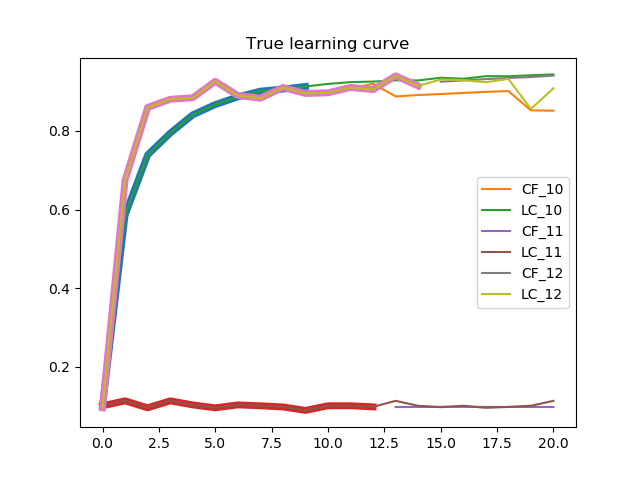
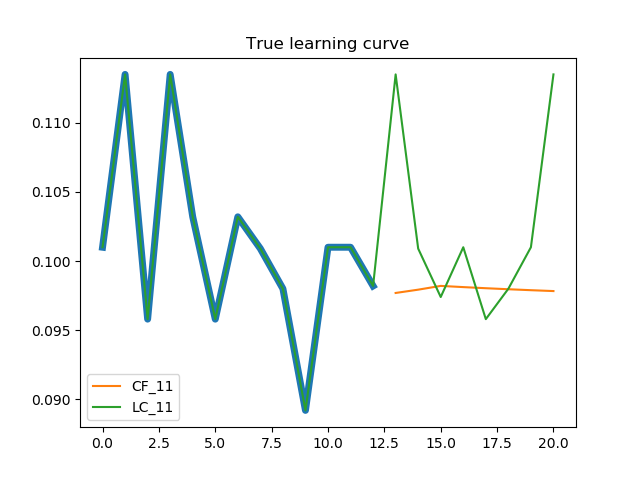
update

diff --git a/examples/experiments/analyse/prediction_comparison.py b/examples/experiments/analyse/prediction_comparison.py
@@ -32,8 +32,6 @@ from nni.mtsmac_advisor.test.util import create_fake_data_simple, create_fake_da
 from nni.mtsmac_advisor.test.util import create_fake_data_expdacay, create_fake_data_expdacay_diff_length
 
 
-
-
 PATH = './examples/experiments'
 
 # pylint:disable=missing-docstring
@@ -54,7 +52,7 @@ def get_err_abs_mtsmac(X, y, len_y):
         count_t = 0
         for j, len_y_j in enumerate(len_y):
             if len_y_j <= t:
-                err_abs[t] += abs(y[j][t]  - mean[j][t])
+                err_abs[t] += abs(y[j][t] - mean[j][t])
                 count_t += 1
         if count_t:
             err_abs[t] /= count_t
@@ -72,38 +70,19 @@ def get_err_abs_cf(X, y, len_y):
             if len_y_j <= t:
                 print("t:", t)
                 print("y_obs[{}]:\n".format(j), y_obs[j])
+                np.random.seed(0)
                 curvemodel = CurveModel(target_pos=t)
                 predict_y = curvemodel.predict(trial_history=y_obs[j])
 
                 del curvemodel
                 print("predict_y: ", predict_y)
-                err_abs[t] += abs(y[j][t]  - predict_y)
+                err_abs[t] += abs(y[j][t] - predict_y)
                 count_t += 1
         if count_t:
             err_abs[t] /= count_t
         print("err_abs", err_abs[t])
-
+    
     return err_abs
-
-
-def test():
-    '''
-    X, y = create_fake_data_mnist(metric="err_rate")
-    len_y = [21,21,21,6]
-    _, y_obs = get_obs(X, y, len_y)
-    print("y_obs[3]:\n", y_obs[3])
-
-    curvemodel = CurveModel(target_pos=6)
-    predict_y = curvemodel.predict(trial_history=y_obs[3])
-    print("predict_y: ", predict_y)
-    '''
-    for i in range(10):
-        np.random.seed(i)
-        t = 8
-        y_obs = [0.11349999904632568, 0.09799999743700027, 0.11349999904632568, 0.11349999904632568, 0.10100000351667404, 0.10320000350475311, 0.09740000218153]
-        predict_y = CurveModel(target_pos=t).predict(trial_history=y_obs)
-        # del curvemodel
-        print("predict_y: ", predict_y)
 
 
 def plot_prediction_comp():
@@ -124,19 +103,33 @@ def plot_prediction_comp():
     plt.close()
 
 
+def test():
+    for i in range(5):
+        np.random.seed(0)
+        t = 8
+        y_obs = [0.11349999904632568, 0.09799999743700027, 0.11349999904632568,
+                 0.11349999904632568, 0.10100000351667404, 0.10320000350475311, 0.09740000218153]
+        print("t:", t)
+        print("y_obs:\n", y_obs)
+        curvemodel = CurveModel(target_pos=t)
+        predict_y = curvemodel.predict(trial_history=y_obs)
+        # del curvemodel
+        print("predict_y: ", predict_y)
+
+
 def test_CF():
     X, y = create_fake_data_mnist(metric="accuracy")
 
-    len_completed = [21] * 10
+    len_completed = [21] * 11
 
     # len_half = [np.random.randint(5, 21) for _ in range(3)]
-    len_half = [10, 13, 15]
+    len_half = [13]
     len_y = len_completed + len_half
 
     _, y_obs = get_obs(X, y, len_y)
 
     mean = np.empty(len(len_y), dtype=object)
-    for i in range(len(len_y)):
+    for i in range(len(len_completed), len(len_y)):
         mean[i] = []
         trial_history = y_obs[i]
         for pos in range(len(trial_history), 21):
@@ -153,6 +146,7 @@ def test_CF():
     plt.savefig('{}/analyse/image/LC.png'.format(PATH))
     plt.close()
 
+
 test()
-#test_CF()
-#plot_prediction_comp()
+# test_CF()
+plot_prediction_comp()

diff --git a/src/sdk/pynni/nni/curvefitting_assessor/model_factory.py b/src/sdk/pynni/nni/curvefitting_assessor/model_factory.py
@@ -50,6 +50,7 @@ class CurveModel(object):
         self.effective_model = []
         self.effective_model_num = 0
         self.weight_samples = []
+        np.random.seed(0)
 
     def fit_theta(self):
         """use least squares to fit all default curves parameter seperately
